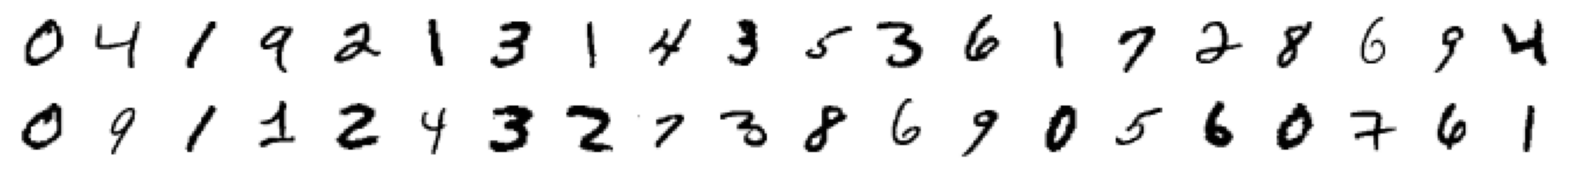
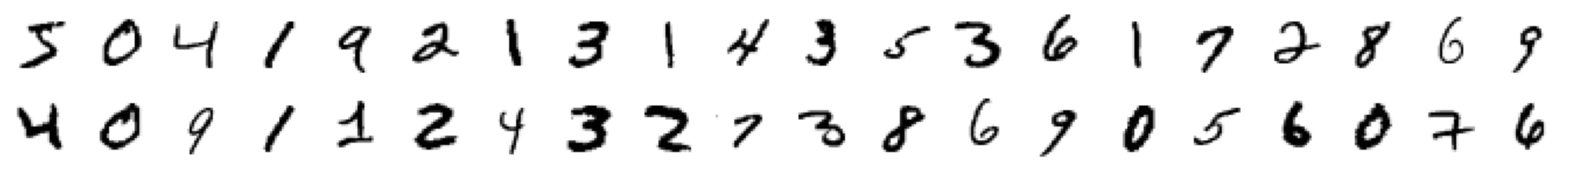
Sync MLD from ML

Changed region(s): [[0.0, 0.0888, 0.9994, 0.4438], [0.0, 0.5917, 0.9994, 0.9172], [0.6246, 0.5917, 0.6558, 0.6213]]

diff --git a/docs/03. Keras_examples.html b/docs/03. Keras_examples.html
@@ -1050,8 +1050,8 @@ Epoch 30/30
 <div class="code-copy-outer-scaffold"><div class="sourceCode cell-code" id="cb64"><pre class="sourceCode python code-with-copy"><code class="sourceCode python"><span id="cb64-1"><a href="#cb64-1" aria-hidden="true" tabindex="-1"></a>columns <span class="op">=</span> <span class="dv">20</span></span>
 <span id="cb64-2"><a href="#cb64-2" aria-hidden="true" tabindex="-1"></a>rows <span class="op">=</span> <span class="dv">2</span></span>
 <span id="cb64-3"><a href="#cb64-3" aria-hidden="true" tabindex="-1"></a>fig <span class="op">=</span> plt.figure(figsize<span class="op">=</span>(columns, rows))</span>
-<span id="cb64-4"><a href="#cb64-4" aria-hidden="true" tabindex="-1"></a><span class="cf">for</span> i <span class="kw">in</span> <span class="bu">range</span>(<span class="dv">1</span>, columns <span class="op">*</span> rows <span class="op">+</span> <span class="dv">1</span>):</span>
-<span id="cb64-5"><a href="#cb64-5" aria-hidden="true" tabindex="-1"></a>    fig.add_subplot(rows, columns, i)</span>
+<span id="cb64-4"><a href="#cb64-4" aria-hidden="true" tabindex="-1"></a><span class="cf">for</span> i <span class="kw">in</span> <span class="bu">range</span>(columns <span class="op">*</span> rows):</span>
+<span id="cb64-5"><a href="#cb64-5" aria-hidden="true" tabindex="-1"></a>    fig.add_subplot(rows, columns, i <span class="op">+</span> <span class="dv">1</span>)</span>
 <span id="cb64-6"><a href="#cb64-6" aria-hidden="true" tabindex="-1"></a>    plt.imshow(x_train[i], cmap<span class="op">=</span><span class="st">"binary"</span>)</span>
 <span id="cb64-7"><a href="#cb64-7" aria-hidden="true" tabindex="-1"></a>    plt.axis(<span class="st">'off'</span>)</span>
 <span id="cb64-8"><a href="#cb64-8" aria-hidden="true" tabindex="-1"></a>plt.show()</span></code></pre></div><button title="Copy to Clipboard" class="code-copy-button"><i class="bi"></i></button></div>
@@ -1064,9 +1064,9 @@ Epoch 30/30
 </div>
 </div>
 <div id="cell-67" class="cell" data-quarto-private-1="{&quot;key&quot;:&quot;execution&quot;,&quot;value&quot;:{&quot;iopub.execute_input&quot;:&quot;2026-07-20T05:59:33.476420Z&quot;,&quot;iopub.status.busy&quot;:&quot;2026-07-20T05:59:33.475468Z&quot;,&quot;iopub.status.idle&quot;:&quot;2026-07-20T05:59:33.484951Z&quot;,&quot;shell.execute_reply&quot;:&quot;2026-07-20T05:59:33.483937Z&quot;}}" data-execution_count="42">
-<div class="code-copy-outer-scaffold"><div class="sourceCode cell-code" id="cb65"><pre class="sourceCode python code-with-copy"><code class="sourceCode python"><span id="cb65-1"><a href="#cb65-1" aria-hidden="true" tabindex="-1"></a><span class="cf">for</span> i <span class="kw">in</span> <span class="bu">range</span>(<span class="dv">1</span>, columns <span class="op">*</span> rows <span class="op">+</span> <span class="dv">1</span>): <span class="bu">print</span>(y_train[i], end<span class="op">=</span><span class="st">", "</span>)</span></code></pre></div><button title="Copy to Clipboard" class="code-copy-button"><i class="bi"></i></button></div>
+<div class="code-copy-outer-scaffold"><div class="sourceCode cell-code" id="cb65"><pre class="sourceCode python code-with-copy"><code class="sourceCode python"><span id="cb65-1"><a href="#cb65-1" aria-hidden="true" tabindex="-1"></a><span class="cf">for</span> i <span class="kw">in</span> <span class="bu">range</span>(columns <span class="op">*</span> rows): <span class="bu">print</span>(y_train[i], end<span class="op">=</span><span class="st">", "</span>)</span></code></pre></div><button title="Copy to Clipboard" class="code-copy-button"><i class="bi"></i></button></div>
 <div class="cell-output cell-output-stdout">
-<pre><code>0, 4, 1, 9, 2, 1, 3, 1, 4, 3, 5, 3, 6, 1, 7, 2, 8, 6, 9, 4, 0, 9, 1, 1, 2, 4, 3, 2, 7, 3, 8, 6, 9, 0, 5, 6, 0, 7, 6, 1, </code></pre>
+<pre><code>5, 0, 4, 1, 9, 2, 1, 3, 1, 4, 3, 5, 3, 6, 1, 7, 2, 8, 6, 9, 4, 0, 9, 1, 1, 2, 4, 3, 2, 7, 3, 8, 6, 9, 0, 5, 6, 0, 7, 6, </code></pre>
 </div>
 </div>
 <p>숫자 손글씨 자료 또한 그림이기 때문에, 데이터 하나는 2차원 데이터이다.</p>
